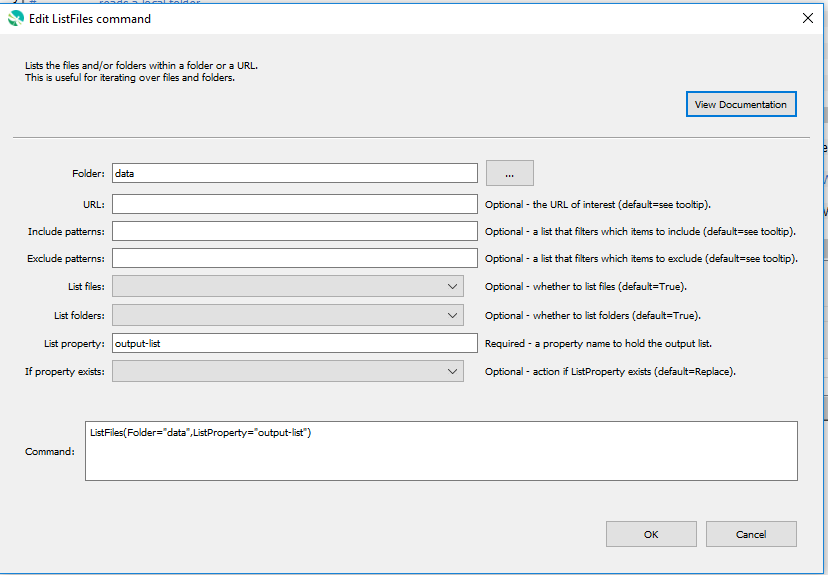
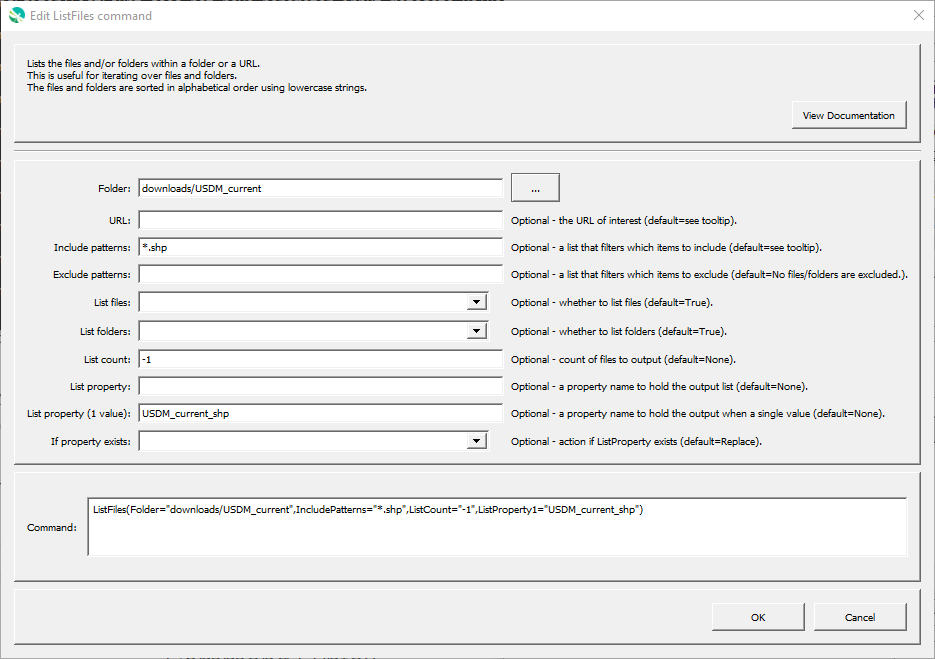
Update ListFiles for new parameters, issue #52
Add `ListCount` and `ListProperty1` parameters.
Also update the GeoMapProject doc for graduated symbol polygon example.

Changed region(s): [[0.0, 0.0, 1.0, 1.0], [0.0302, 0.0887, 0.3925, 0.1478]]

diff --git a/mkdocs-project/docs/command-ref/ListFiles/ListFiles.md b/mkdocs-project/docs/command-ref/ListFiles/ListFiles.md
@@ -47,9 +47,12 @@ Command Parameters
 |`ListProperty`<br> **required**|A [property](../../introduction/introduction.md#geoprocessor-properties-property) name to hold the output list.|None - must be specified.|
 |`IncludePatterns`|A list of comma-separated [glob-style patterns](https://en.wikipedia.org/wiki/Glob_(programming)) that filter which items to include in the output list. |`*` - all files/folders are included.|
 |`ExcludePatterns`|A list of comma-separated [glob-style patterns](https://en.wikipedia.org/wiki/Glob_(programming)) that filter which items to exclude in the output list.| No files/folders are excluded.|
-|`ListFiles`|Indicates whether files are listed:<ul><li>`True` - files will be listed.</li></li>`False` - files will not be listed.</li></ul>|`True`|
--`ListFolders`|Indicates whether folders are listed:<ul><li>`True`, folders will be listed.</li><li>`False` - folders will not be listed.</li></ul>|`True`|
-|`IfPropertyExists`<br>|The action that occurs if the `ListProperty` is already an existing property:<ul><li>`Replace` - The existing property value is replaced with the output list. No warning is logged.</li><li>`ReplaceAndWarn` - The existing property value is replaced with the output list. A warning is logged.</li><li>`Warn` - The existing property keeps its original value. A warning is logged.</li><li>`Fail` - The existing property keeps its original value. A fail message is logged.</li></ul> | `Replace` | 
+|`ListFiles`|Indicates whether files are listed:<ul><li>`True` - files will be listed.</li><li>`False` - files will not be listed.</li></ul>|`True`|
+|`ListFolders`|Indicates whether folders are listed:<ul><li>`True`, folders will be listed.</li><li>`False` - folders will not be listed.</li></ul>|`True`|
+|`ListCount`| The number of items to return:<ul><li>if a positive number the, number of items from the start of the list is returned</li><li>if a negative number, the number of items from the end of the list is returned</li></ul> Use with `ListProperty1` value of `1` or `-1` to set a property matching the first or last file in a list, such as when filenames include a date.| Return all files and folders.|
+|`ListProperty`| The name of a property to set to the list output, an array of strings. `ListProperty` and/or `ListProperty1` must be specified. | |
+|`ListProperty1`| The name of a property to set to the list output if the list contains a single value. `ListProperty` and/or `ListProperty1` must be specified. | |
+|`IfPropertyExists`<br>|The action that occurs if the `ListProperty` or `ListProperty1` is already an existing property:<ul><li>`Replace` - The existing property value is replaced with the output list. No warning is logged.</li><li>`ReplaceAndWarn` - The existing property value is replaced with the output list. A warning is logged.</li><li>`Warn` - The existing property keeps its original value. A warning is logged.</li><li>`Fail` - The existing property keeps its original value. A fail message is logged.</li></ul> | `Replace` | 
 
 ## Examples ##
 

diff --git a/mkdocs-project/docs/appendix-geomapproject/geomapproject.md b/mkdocs-project/docs/appendix-geomapproject/geomapproject.md
@@ -645,7 +645,7 @@ or with a layer attribute that has a large number of unique values
 (for example for integer and string types) that would result in a large number of colors if category classification is used.
 Ranges of values must be specified
 and colors within the range may be constant, or gradually change using a "color ramp".
-Currently, only a single color within a range is supported.
+Currently, only a single color for a range is supported (not a continuous ramp).
 
 Categorized classification can also be used for a raster layer, where a cell's data value is evaluated to determine color, opacity, etc.
 
@@ -659,7 +659,7 @@ Graduated Classification Examples
 | -- | -- |
 | Point (stream station conditions) | **Need to generate image** |
 | Line (stream conditions) | **Need to generate image** |
-| Polygon (water districts) | **Need to generate image** |
+| Polygon (US Drought Monitor) | ![images/example-map-categorized-polygon](images/example-map-graduated-polygon.png) ![images/example-map-graduated-polygon-legend](images/example-map-graduated-polygon-legend.png) |
 | Raster (year of land development, integer values, grouped into 5-year ranges) | ![images/example-map-categorized-raster](images/example-map-graduated-raster.png) ![images/example-map-graduated-raster-integer-legend](images/example-map-graduated-raster-integer-legend.png) |
 
 The following GeoLayerSymbol properties can be used with GeoLayerSymbol `classificationType=Graduated`

diff --git a/mkdocs-project/docs/appendix-release-notes/release-notes-1.md b/mkdocs-project/docs/appendix-release-notes/release-notes-1.md
@@ -15,6 +15,8 @@
 The user interface will indicate warnings and errors.
 * ![change](change.png) [1.5.0] Multiple results windows can now be opened for maps and attribute tables.
 Previously a single window could be opened and would be replaced for each view.
+* ![change](change.png) [1.5.0] Update [`ListFiles`](../command-ref/ListFiles/ListFiles.md)
+command to have `ListCount` and `ListProperty1` parameters.
 * ![change](change.png) [1.5.0] Update [`ReadTableFromDelimitedFile`](../command-ref/ReadTableFromDelimitedFile/ReadTableFromDelimitedFile.md)
 command to work with new table design.
 * ![change](change.png) [1.5.0] Update [`WriteRasterGeoLayerToFile`](../command-ref/WriteRasterGeoLayerToFile/WriteRasterGeoLayerToFile.md)
